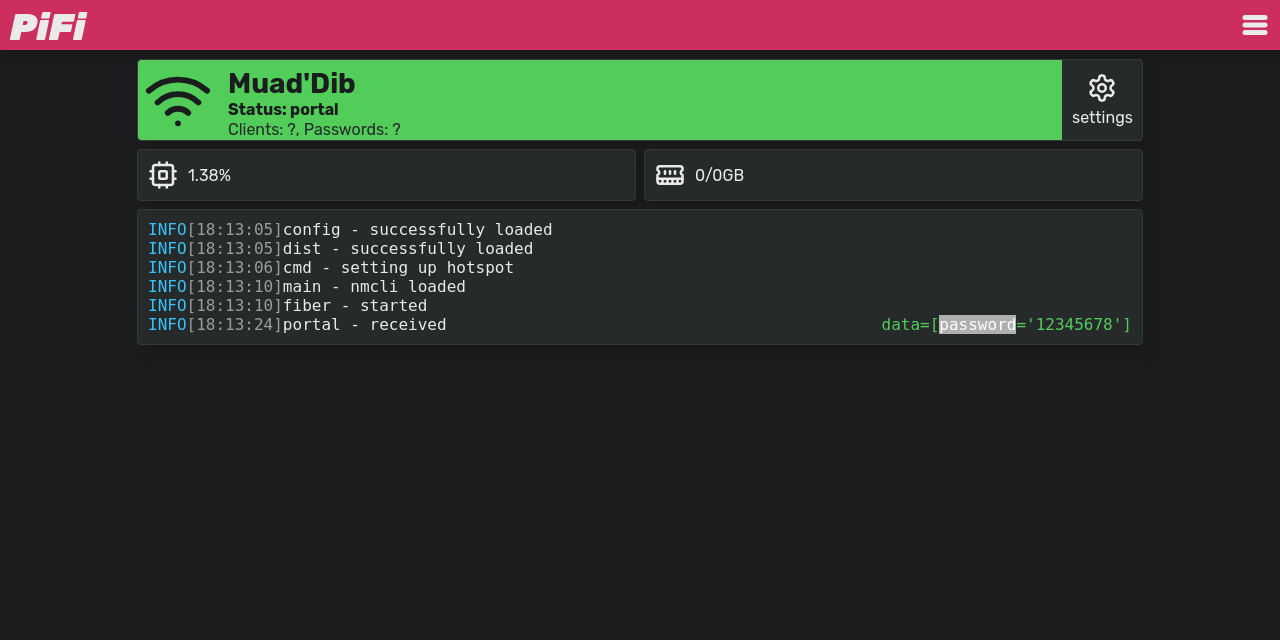
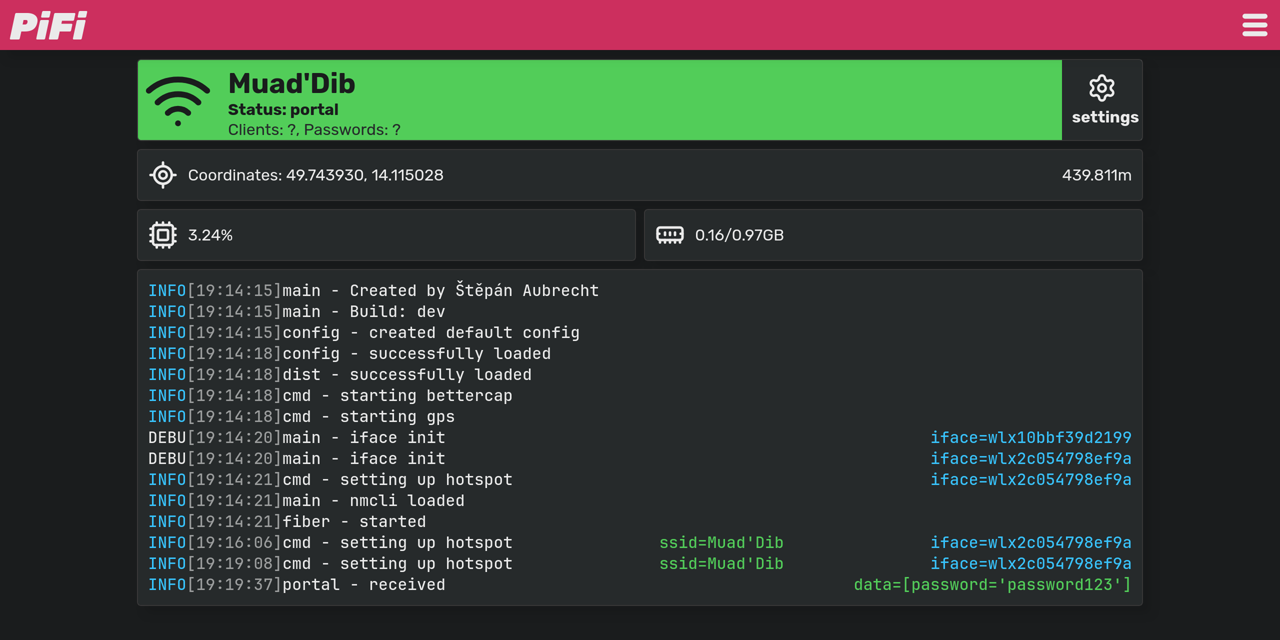
added automatic default config creation

diff --git a/backend/hp/config.go b/backend/hp/config.go
@@ -2,6 +2,8 @@ package hp
 
 import (
 	"os"
+	"strings"
+	"time"
 
 	"github.com/knadh/koanf/parsers/toml"
 	"github.com/knadh/koanf/providers/file"
@@ -16,6 +18,16 @@ const ConfigName = "config.toml"
 func ConfigLoad() {
 	err := Config.Load(file.Provider(ConfigName), toml.Parser())
 	if err != nil {
+		if strings.Contains(err.Error(), "no such file or directory") {
+			err = os.WriteFile(ConfigName, []byte("[main]\naddress = \":80\"\npassword = \"ligma\"\ngateway = \"10.42.0.1\""), 0644)
+			if err == nil {
+				logrus.Info("config - created default config")
+				time.Sleep(3 * time.Second) // prevent very fast infinity loop just in case something went wrong
+				ConfigLoad()
+				return
+			}
+		}
+
 		logrus.WithFields(logrus.Fields{
 			"err": err.Error(),
 		}).Panic("config - load failed")

diff --git a/README.md b/README.md
@@ -78,5 +78,24 @@ sudo systemctl disable bettercap
 - Hardware Serial -> Yes
 - ```bash
   sudo apt install pps-tools gpsd gpsd-clients chrony
+  sudo systemctl stop gpsd
+  sudo systemctl stop gpsd.socket
+
+  # Edit these settings to match your gps module
+  sudo ubxtool -S 460800 -s 38400 -f /dev/serial0
+  sudo ubxtool -s 460800 -e GPS -e GALILEO -e GLONASS -e BEIDOU -e SBAS -f /dev/serial0
+  sudo ubxtool -s 460800 -z CFG-RATE-MEAS,100 -f /dev/serial0
+  sudo ubxtool -s 460800 -z CFG-NAVSPG-DYNMODEL,4 -f /dev/serial0
+  sudo ubxtool -s 460800 -p SAVE -f /dev/serial0
+  ```
+- Edit `/etc/default/gpsd`
+- ```bash
+  DEVICES="/dev/serial0"
+  GPSD_OPTIONS="-n -s 460800"
+  USBAUTO="true"
+  ```
+- Apply
+- ```bash
+  sudo systemctl enable gpsd
   sudo reboot
   ```
